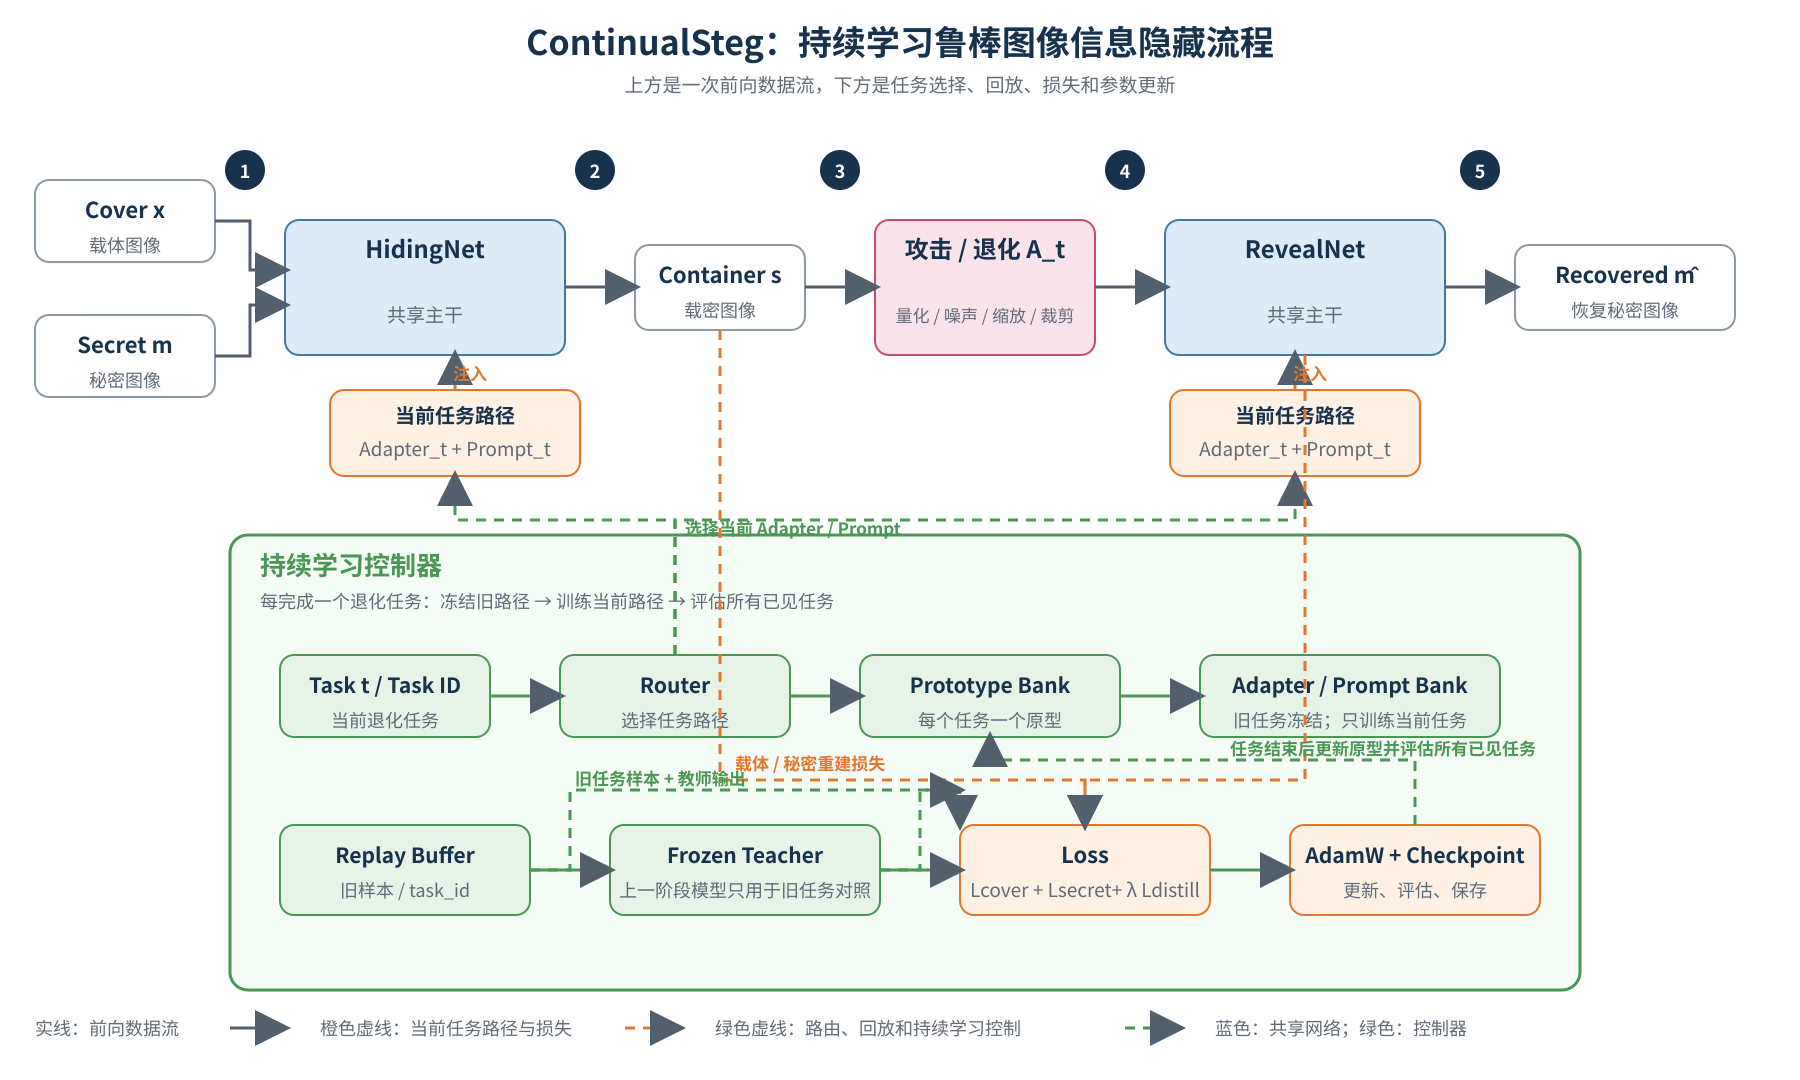
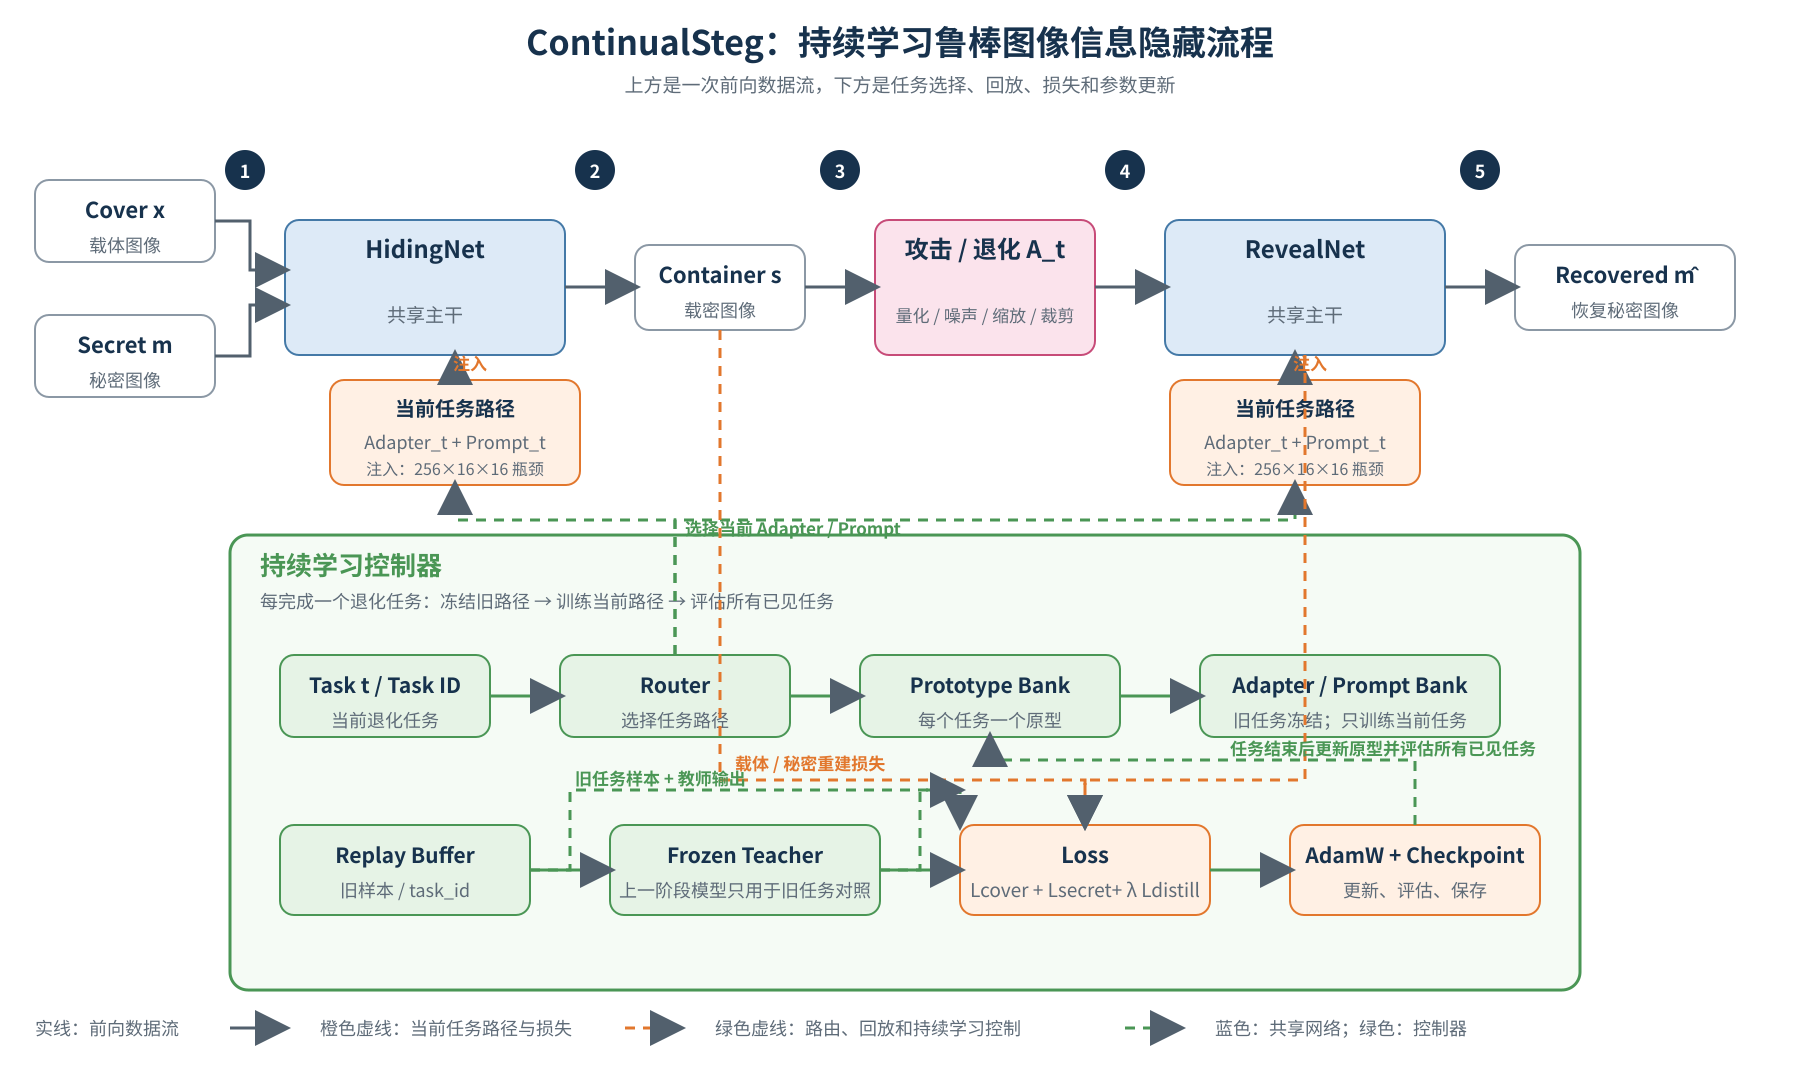
Explain RwF adapters and UDH metric differences

Changed region(s): [[0.6533, 0.3361, 0.8089, 0.4889], [0.1867, 0.3361, 0.3422, 0.4889]]

diff --git a/ContinualSteg/tools/draw_structure.py b/ContinualSteg/tools/draw_structure.py
@@ -68,16 +68,18 @@ line(1445,287,1515,287)
 # number badges
 for x,n in [(245,1),(595,2),(840,3),(1125,4),(1480,5)]: badge(x,170,n)
 # Adapter injection labels / arrows
-rect(330,390,250,86,ORANGE,ORANGE_STROKE)
-text(455,423,"当前任务路径",20,INK,700)
-text(455,456,"Adapter_t + Prompt_t",19,MUTED)
-rect(1170,390,250,86,ORANGE,ORANGE_STROKE)
-text(1295,423,"当前任务路径",20,INK,700)
-text(1295,456,"Adapter_t + Prompt_t",19,MUTED)
-poly([(455,390),(455,355)],ORANGE_STROKE,3,"8 7")
-poly([(1295,390),(1295,355)],ORANGE_STROKE,3,"8 7")
-text(470,380,"注入",17,ORANGE_STROKE,700)
-text(1310,380,"注入",17,ORANGE_STROKE,700)
+rect(330,380,250,105,ORANGE,ORANGE_STROKE)
+text(455,416,"当前任务路径",20,INK,700)
+text(455,449,"Adapter_t + Prompt_t",18,MUTED)
+text(455,475,"注入：256通道瓶颈",16,MUTED)
+rect(1170,380,250,105,ORANGE,ORANGE_STROKE)
+text(1295,416,"当前任务路径",20,INK,700)
+text(1295,449,"Adapter_t + Prompt_t",18,MUTED)
+text(1295,475,"注入：256通道瓶颈",16,MUTED)
+poly([(455,380),(455,355)],ORANGE_STROKE,3,"8 7")
+poly([(1295,380),(1295,355)],ORANGE_STROKE,3,"8 7")
+text(470,370,"注入",17,ORANGE_STROKE,700)
+text(1310,370,"注入",17,ORANGE_STROKE,700)
 # controller panel
 rect(230,535,1350,455,"#F5FBF5",GREEN_STROKE,18,3)
 text(260,575,"持续学习控制器",26,GREEN_STROKE,700,"start")
@@ -91,8 +93,8 @@ line(490,696,560,696,GREEN_STROKE,3)
 line(790,696,860,696,GREEN_STROKE,3)
 line(1120,696,1200,696,GREEN_STROKE,3)
 # route upward to top components (minimal)
-poly([(675,655),(675,520),(455,520),(455,476)],GREEN_STROKE,3,"10 8")
-poly([(675,655),(675,520),(1295,520),(1295,476)],GREEN_STROKE,3,"10 8")
+poly([(675,655),(675,520),(455,520),(455,485)],GREEN_STROKE,3,"10 8")
+poly([(675,655),(675,520),(1295,520),(1295,485)],GREEN_STROKE,3,"10 8")
 text(685,535,"选择当前 Adapter / Prompt",17,GREEN_STROKE,700,"start")
 # bottom controller row
 box(280,825,250,90,"Replay Buffer","旧样本 / task_id",GREEN,GREEN_STROKE,21,18)

diff --git a/ContinualSteg/docs/rwf_udh_comparison.md b/ContinualSteg/docs/rwf_udh_comparison.md
@@ -1,0 +1,230 @@
+# RwF、Replay/Distillation 与当前 ContinualSteg 的对应关系
+
+## 1. 相关论文到底是哪几篇
+
+### RwF 本身
+
+`Restoring Without Forgetting: Continual Learning Across Image Degradations` 的核心不是 Replay 或 Distillation，而是**冻结共享恢复主干 + 每个退化使用独立 Adapter 路径 + Prototype 路由**。它明确采用无旧样本保存的参数隔离方案。
+
+### Replay Buffer
+
+RwF 的相关工作部分把 Replay 归为持续学习的三类方法之一，并引用：
+
+- Chaudhry et al., **Efficient Lifelong Learning with A-GEM**, 2018：使用少量过去样本约束更新方向。
+- Chaudhry et al., **On Tiny Episodic Memories in Continual Learning**, 2019：研究小型 episodic memory 如何保存旧样本。
+- Rolnick et al., **Experience Replay for Continual Learning**, 2019：经验回放的经典工作，当前代码的随机抽样 ReplayBuffer 与它的思想相近。
+
+当前 `ReplayBuffer` 只做样本保存、随机抽样和 reservoir sampling；它没有实现 A-GEM 的梯度投影，所以不能称为 A-GEM。
+
+### Distillation
+
+对应论文是：
+
+- Li & Hoiem, **Learning without Forgetting**, ECCV 2016 / TPAMI 2017。
+
+LwF 用旧模型作为 teacher，让新模型在旧任务输出上保持接近。当前代码的形式更接近输出蒸馏：对旧样本分别比较 teacher/student 的 container 和 recovered secret 的 MSE，但它不是原论文的分类 logits 蒸馏。
+
+### Adapter 与 Prompt
+
+- RwF 的 Adapter 设计借鉴了低秩适配思想，论文明确引用 LoRA；每个退化在主干的多个 block 中放置一组 Adapter。
+- AIM（ICLR 2023）研究的是冻结图像模型、加入轻量 Adapter 的参数高效迁移。AIM 的 Adapter 放在 Transformer 的 self-attention 后、temporal attention 后以及 MLP 旁路中；AIM 本身不是当前 PromptBank 的来源。
+- 当前项目的 `PromptBank` 是任务条件向量的工程实现，属于 task-conditioned prompt/bias，不是 RwF 图中的模块，也不是 AIM 中的核心模块。
+
+## 2. RwF 论文结构图怎么读
+
+论文图从左到右可以分成训练区和推理区。
+
+1. 左侧 `D1, D2, ..., DN` 是按顺序到来的退化域，例如噪声、模糊、雨、雾、低照度。
+2. 中间左侧是共享 Encoder Path，蓝色雪花表示主干被冻结；每个 Encoder Level 内有当前域的 Adapter。
+3. 中间底部是 Bottleneck/Latent；共享主干负责通用图像恢复特征，Adapter 负责修正当前退化。
+4. 中间右侧是 Decoder Path，Decoder 的各个 level 也放置对应域的 Adapter，因此一条路径覆盖整个 Encoder–Decoder，而不是只改一个层。
+5. 中央的共享 embedding space 用来生成每个域的 Prototype `μ1 ... μN`。
+6. 右侧推理时不提供退化标签：输入先经过浅层 Encoder，得到 embedding；再和所有 Prototype 做 cosine similarity，选择 Adapter id。
+7. 选中的 Adapter 在 Encoder 和 Decoder 路径同时激活，其他路径保持不活动，最后得到 restored image。
+8. 图中的红色虚线是下采样，绿色虚线是上采样，黄色虚线是 U-Net skip connection；蓝色表示 frozen，橙色表示当前可训练路径。
+
+RwF 的 Adapter 注入位置不是 bottleneck 单点，而是每个主干 block。论文对 Transformer 的表达是：在 attention 后的特征上加入 Adapter，再进入 FFN；对卷积网络则放在 channel-mixing 分支附近。RwF 没有 PromptBank。
+
+## 3. 当前 ContinualSteg 的真实 Adapter/Prompt 位置
+
+当前代码对应 `continual_steg/models.py`。
+
+### HidingNet
+
+```text
+cover [B,3,H,W] + secret [B,3,H,W]
+        ↓ concat
+[B,6,H,W]
+        ↓ Conv 6→64, stride=2
+[B,64,H/2,W/2]
+        ↓ Conv 64→128, stride=2
+[B,128,H/4,W/4]
+        ↓ Conv 128→256, stride=2
+z_h = [B,256,H/8,W/8]
+        ↓ SpatialAdapter_t
+        ↓ + prompt_bias_t(prompt_t)
+        ↓ 3 个 ConvTranspose 上采样层
+container [B,3,H,W]
+```
+
+### RevealNet
+
+```text
+attacked container [B,3,H,W]
+        ↓ Conv 3→64, stride=2
+[B,64,H/2,W/2]
+        ↓ Conv 64→128, stride=2
+[B,128,H/4,W/4]
+        ↓ Conv 128→256, stride=2
+z_r = [B,256,H/8,W/8]
+        ↓ SpatialAdapter_t
+        ↓ + prompt_bias_t(prompt_t)
+        ↓ 3 个 ConvTranspose 上采样层
+recovered secret [B,3,H,W]
+```
+
+当 `image_size=128` 时，瓶颈空间大小是 `16×16`；当你的训练命令使用 `image_size=64` 时，瓶颈空间大小是 `8×8`。通道数始终是 256。
+
+### Adapter 的精确注入
+
+`SpatialAdapter` 定义为：
+
+```python
+x = x + up(GELU(down(GroupNorm(x))))
+```
+
+其中：
+
+- `GroupNorm(1, 256)`：对瓶颈特征归一化；
+- `down`：`1×1 Conv 256→32`，默认 `adapter_bottleneck=32`；
+- `GELU`：非线性变换；
+- `up`：`1×1 Conv 32→256`；
+- 输出采用残差方式加回原特征。
+
+因此当前项目的 Adapter 是**隐藏端一个 bottleneck Adapter + 恢复端一个 bottleneck Adapter**。五个任务总共会创建 10 个 `SpatialAdapter`，但每个阶段只训练当前 task_id 对应的两组 Adapter。
+
+### Prompt 的精确注入
+
+```python
+prompt_t = PromptBank.prompts[task_id]       # [64]
+bias_t = prompt_bias[task_id](prompt_t)      # [256]
+bias_t = bias_t[:, :, None, None]             # [B,256,1,1]
+x = adapter(x) + bias_t                       # broadcast 到 H/8×W/8
+```
+
+所以 Prompt 不是额外图片，也不是拼接到输入的通道；它是一个每任务 64 维向量，经线性层变成 256 个通道偏置，在 Adapter 后、Decoder 前注入瓶颈特征。
+
+HidingNet 和 RevealNet 使用同一个 task prompt，但各自有独立的 `prompt_bias` 线性投影。
+
+需要注意：当前 `PromptBank`、`prompt_bias.weight` 和 `prompt_bias.bias` 都是零初始化。这样可以保持旧模型初始行为，但也可能使 prompt 向量和 weight 的梯度长期为零，实际有效的部分更接近每任务 bias。若要验证 Prompt 的独立贡献，应改为非零小幅初始化或加入显式 prompt loss，并重新做 ablation。
+
+## 4. 当前项目与 RwF 的关键差异
+
+| 位置 | RwF | ContinualSteg |
+|---|---|---|
+| 共享主干 | 从开始冻结的 Restormer/NAFNet | 第一个 clean 阶段训练共享 CNN，后续阶段冻结 |
+| Adapter 数量 | 每个 Encoder/Decoder block 一组 | HidingNet 和 RevealNet 各在 bottleneck 一组 |
+| Adapter 形式 | LayerNorm + 低秩残差 Adapter | GroupNorm + 1×1 down/up 残差 Adapter |
+| Prompt | 没有 PromptBank | 每任务 64 维 Prompt，经 Linear 变成 256 通道 bias |
+| 旧数据 | 不保存旧数据 | ReplayBuffer 保存少量旧 cover/secret/task_id |
+| Distillation | 不是 RwF 核心机制 | frozen old_model 与当前模型输出 MSE |
+| 路由特征 | Encoder Level 1 的均值和标准差 | 当前 `RevealNet.extract_feature()` 的 bottleneck 空间均值 |
+
+因此当前项目是把 RwF 的“路径隔离和路由”思想迁移到图像隐写，而不是 RwF 的逐层 Adapter 原样复现。
+
+## 5. 为什么 clean 阶段与直接 UDH 复现的数值会不同
+
+### 网络容量不同
+
+原始 UDH 代码中 `num_downs=5`：
+
+- `HidingUNet`：5 个下采样 `Conv2d` + 5 个上采样 `ConvTranspose2d`，包含 U-Net skip connection；
+- `RevealNet`：6 个同分辨率 `3×3 Conv2d`，没有下采样和上采样；
+- 对 `imageSize=128`，HidingUNet 的空间路径是 `128→64→32→16→8→4→8→16→32→64→128`。
+
+当前 ContinualSteg：
+
+- `HidingNet`：3 个下采样卷积 + 3 个上采样反卷积；
+- `RevealNet`：3 个下采样卷积 + 3 个上采样反卷积；
+- 没有 U-Net 的长跳跃连接；
+- 对 `image_size=128`，空间路径是 `128→64→32→16→32→64→128`。
+
+因此当前模型更轻量，但与原始 UDH 不是同一个网络。尤其恢复端原始 UDH 保持高分辨率连续卷积，当前 RevealNet 先压缩再恢复，细节恢复能力不同。
+
+### 输入/输出定义不同
+
+原始 UDH 默认 `cover_dependent=False`，HidingUNet 主要接收 secret，输出一个隐写残差，随后由外部代码计算：
+
+```python
+container = cover + hidden_residual
+```
+
+当前模型直接把 cover 和 secret 拼接后输入 HidingNet：
+
+```python
+container = HidingNet(torch.cat([cover, secret], dim=1))
+```
+
+这改变了优化问题：原始 UDH 显式限制隐藏残差，当前模型直接生成 container，只通过 cover loss 约束它接近 cover。
+
+### 损失函数不同
+
+原始 UDH 默认：
+
+```text
+loss = MSE(container, cover) + 0.75 × MSE(recovered, secret)
+```
+
+当前 clean 阶段没有旧模型，因此蒸馏项为 0，实际为：
+
+```text
+loss = L1(container, cover) + L1(recovered, secret)
+```
+
+两者在以下方面不同：
+
+- MSE 与 L1 的梯度特性不同；
+- secret loss 权重不同，UDH 为 0.75，当前模型默认等权；
+- 原始 UDH 使用残差式 container，当前模型直接输出 container；
+- 当前模型有 task adapter/prompt，原始 UDH 没有。
+
+### 归一化和优化器不同
+
+原始 UDH 常用 `BatchNorm2d`、Adam、初始学习率 `0.001`；当前模型使用 `GroupNorm`，AdamW，默认学习率 `2e-4`。BatchNorm 的 batch 统计和 GroupNorm 的逐样本统计会产生不同结果。
+
+### 数据配对方式不同
+
+原始 UDH 使用两个独立的 `ImageFolder` 和两个 DataLoader，再通过 `zip` 配对 cover/secret。当前 `PairedImageDataset` 使用一个目录，并通过固定索引公式独立选择 secret。即使图像集合相同，实际配对顺序也不同。
+
+### 指标计算方式不同
+
+原始 UDH 的分析代码按图像、按通道计算 PSNR/SSIM 后再平均；当前 `metrics.py` 的 PSNR 先对整个 batch 的所有像素计算一个 MSE，再转成一个 PSNR，然后对 batch 结果平均。两者不一定相等，尤其不同 batch size 或图像难度差异较大时。
+
+### 训练协议不同
+
+原始 UDH 脚本默认约 65 个 epoch、每 epoch 最多 2000 个 iteration；当前项目是每个持续学习任务 50 个 epoch，并且 clean 阶段之后还要继续经过量化、高斯、resize、crop 任务。若比较的是最终 checkpoint 而不是 clean 阶段 checkpoint，结果也不能直接与 UDH clean baseline 比较。
+
+## 6. 如何做公平的 clean 对照
+
+要判断差异到底来自网络还是训练协议，建议固定以下条件：
+
+1. 同一 DIV2K train/val 文件列表和同一 cover-secret 配对；
+2. 同一 `image_size`，建议先统一为 128；
+3. 同一 batch size、epoch/iteration 数和随机种子；
+4. 同一损失：都使用 MSE，或都使用 L1；
+5. 同一 container 定义：都采用 `cover + residual`，或都直接输出 container；
+6. 同一归一化：都使用 BatchNorm 或都使用 GroupNorm；
+7. 同一 PSNR/SSIM 实现，统一为逐图像计算后再平均；
+8. 只比较 clean 阶段，不把后续持续任务的 checkpoint 当作 clean baseline；
+9. 额外记录 HidingNet、RevealNet、Adapter 和 Prompt 的参数量。
+
+最有解释力的四组实验是：
+
+```text
+A. 原始 UDH + 原始损失 + 原始指标
+B. 当前 CNN + 原始损失 + 原始指标
+C. 原始 UDH + 当前损失 + 当前指标
+D. 当前 CNN + 当前损失 + 当前指标
+```
+
+A 与 B 主要反映网络结构差异，B 与 D 主要反映损失/评估协议差异。这样才能说明 clean 阶段指标变化究竟来自模型容量、数据、损失还是评价方式。

diff --git a/ContinualSteg/README.md b/ContinualSteg/README.md
@@ -15,6 +15,8 @@ The code-aligned data flow and tensor shapes are documented in
 [`docs/continual_steg_structure.md`](docs/continual_steg_structure.md). A
 clean static overview is available as
 [`docs/continual_steg_structure_clean.svg`](docs/continual_steg_structure_clean.svg).
+The detailed RwF/UDH comparison and metric-analysis notes are in
+[`docs/rwf_udh_comparison.md`](docs/rwf_udh_comparison.md).
 
 ## What is trained
 
